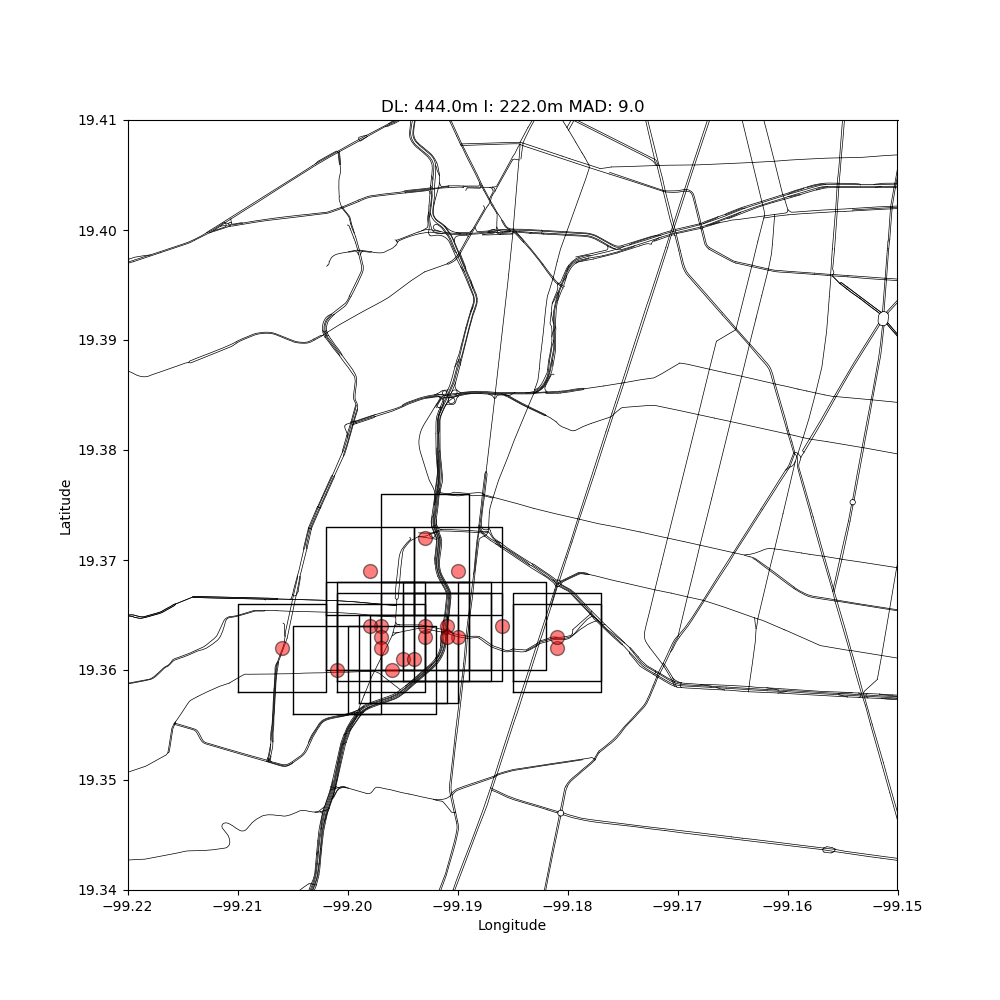
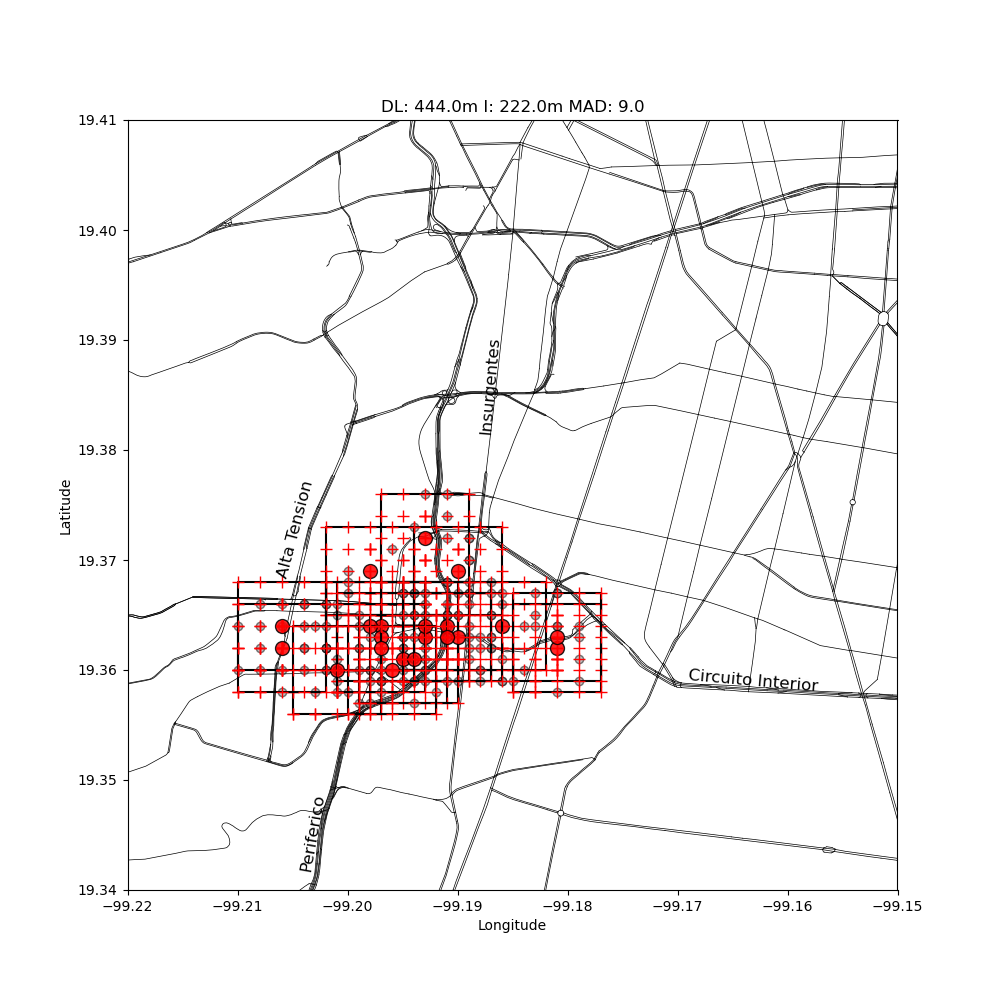
adding search grid

diff --git a/Results/plot_map.py b/Results/plot_map.py
@@ -21,7 +21,10 @@ sf = shp.Reader("./zip/1ra_Red_vial_primaria_acceso_controlado_cdmx_09_23.shp")
 proj_string = "+proj=utm +zone={} +ellps=WGS84".format(zone)
 proj_utm = Proj(proj_string)
 fault = np.loadtxt('../coordinates/fault.dat')
+marker_size = 8
 
+def mouse_event(event):
+    print('x: {} and y: {}'.format(event.xdata, event.ydata))
 
 def parse_parameters(input_file):
     parameters = input_file.split('_')
@@ -34,6 +37,7 @@ def parse_parameters(input_file):
 def plot_map(catalog, config):
     #fig = pygmt.Figure()
     fig, ax = plt.subplots(nrows=1, ncols=1, figsize=(10, 10))
+    cid = fig.canvas.mpl_connect('button_press_event', mouse_event)
     #pygmt.config(MAP_FRAME_TYPE="plain")
     #pygmt.config(FORMAT_GEO_MAP="ddd.xxx")
     #fig.basemap(region=region, projection='M5i', frame=['WSen', 'xa0.015','ya0.015'])
@@ -57,22 +61,58 @@ def plot_map(catalog, config):
     lat = []
 
     for _, row in catalog.iterrows():
+        if row['CC'] < 0.95:
+            ax.plot(float(row['longitude']), float(row['latitude']), 'ko', markersize=6, alpha=0.5, markerfacecolor='gray')
+
+    for _, row in catalog.iterrows():
         if row['CC'] >= 0.95:
             lon.append(row['longitude'])
             lat.append(row['latitude'])
-            ax.plot(float(row['longitude']), float(row['latitude']), 'ko', markersize=10, alpha=0.5, markerfacecolor='red')
+            ax.plot(float(row['longitude']), float(row['latitude']), 'ko', markersize=10, alpha=0.85, markerfacecolor='red', lw=2)
             dlat = config['R']
+            dinc = config['I']
 
             x_square = [row['longitude'] - dlat, row['longitude'] - dlat, row['longitude'] + dlat, row['longitude'] + dlat, row['longitude'] - dlat]
             y_square = [row['latitude'] - dlat, row['latitude'] + dlat, row['latitude'] + dlat, row['latitude'] - dlat, row['latitude'] - dlat]
-            ax.plot(x_square, y_square, 'k-', linewidth=1)
-    ax.plot(fault[:,0], fault[:,1], 'k-', linewidth=2)
+            x_inc = [row['longitude'] - dinc, row['longitude'] - dinc, row['longitude'] + dinc, row['longitude'] + dinc, row['longitude'] - dinc]
+            y_inc = [row['latitude'] - dinc, row['latitude'] + dinc, row['latitude'] + dinc, row['latitude'] - dinc, row['latitude'] - dinc]
+            x_inc2 = [row['longitude'] - dlat, row['longitude'] - dlat, row['longitude'] + dlat, row['longitude'] + dlat, row['longitude'] - dlat]
+            y_inc2 = [row['latitude'] - dinc, row['latitude'] + dinc, row['latitude'] + dinc, row['latitude'] - dinc, row['latitude'] - dinc]
+            x_inc3 = [row['longitude'] - dinc, row['longitude'] - dinc, row['longitude'] + dinc, row['longitude'] + dinc, row['longitude'] - dinc]
+            y_inc3 = [row['latitude'] - dlat, row['latitude'] + dlat, row['latitude'] + dlat, row['latitude'] - dlat, row['latitude'] - dlat]
+            x_inc4 = [row['longitude']      , row['longitude']      , row['longitude']      , row['longitude']      , row['longitude']      ]
+            y_inc4 = [row['latitude'] - dinc, row['latitude'] + dinc, row['latitude'] + dinc, row['latitude'] - dinc, row['latitude'] - dinc]
+            x_inc5 = [row['longitude'] - dinc, row['longitude'] - dinc, row['longitude'] + dinc, row['longitude'] + dinc, row['longitude'] - dinc]
+            y_inc5 = [row['latitude']        , row['latitude']        , row['latitude']        , row['latitude']        , row['latitude']        ]
+            x_inc5 = [row['longitude']       , row['longitude']       , row['longitude'] + dlat, row['longitude'] - dlat, row['longitude']]
+            y_inc5 = [row['latitude']  +dlat , row['latitude']  - dlat, row['latitude']        , row['latitude']        , row['latitude'] ]
+            x_inc6 = [row['longitude']       , row['longitude']       , row['longitude'] + dinc, row['longitude'] - dinc, row['longitude']]
+            y_inc6 = [row['latitude']  +dinc , row['latitude']  - dinc, row['latitude']        , row['latitude']        , row['latitude'] ]
+            ax.plot(x_square, y_square, 'k-', linewidth=1.5)
+            ax.plot(x_square, y_square, 'r+', linewidth=1, markersize=marker_size)
+            ax.plot(x_inc, y_inc, 'r+', linewidth=1, markersize=marker_size)
+            ax.plot(x_inc2, y_inc2, 'r+', linewidth=1, markersize=marker_size)
+            ax.plot(x_inc3, y_inc3, 'r+', linewidth=1, markersize=marker_size)
+            ax.plot(x_inc4, y_inc4, 'r+', linewidth=1, markersize=marker_size)
+            ax.plot(x_inc5, y_inc5, 'r+', linewidth=1, markersize=marker_size)
+            ax.plot(x_inc6, y_inc6, 'r+', linewidth=1, markersize=marker_size)
+        
+    #ax.plot(fault[:,0], fault[:,1], 'r+', linewidth=1, markersize=12)
+    #ax.plot(-99.190, 19.369, 'k*', markersize=18, alpha=0.5, markerfacecolor='yellow')
+    #ax.plot(-99.199, 19.363, 'k*', markersize=18, alpha=0.5, markerfacecolor='green')
     ax.set_xlabel('Longitude')
     ax.set_ylabel('Latitude')
     ax.set_xlim(-99.22, -99.15)
     ax.set_ylim(19.340, 19.410)
     ax.set_aspect('equal', adjustable='box')
     ax.title.set_text('DL: ' + str(np.round(dlat*111.1*1000)) +  'm I: ' + str(np.round(config['I']*111.1*1000)) + 'm MAD: ' + str(config['mad']) )
+    ax.text(-99.18809090909091,19.381363636363634,'Insurgentes', fontsize=12, rotation=85, ma='left', va='bottom')
+    ax.text(-99.16904545454545, 19.35781818181818,'Circuito Interior', fontsize=12, rotation=-5, ma='left', va='bottom')
+    ax.text(-99.20659090909092, 19.368181818181817,'Alta Tension', fontsize=12, rotation=75, ma='left', va='bottom')
+    ax.text(-99.20440909090909, 19.341590909090908,'Periferico', fontsize=12, rotation=80, ma='left', va='bottom')
+    #fig.show() 
+    #fig.show() 
+    fig.savefig('map_dl_' + str(np.round(dlat*111.1*1000)) + 'm.png')
     #fig.show() 
     fig.savefig('map_dl_' + str(np.round(dlat*111.1*1000)) + 'm.png')
 
